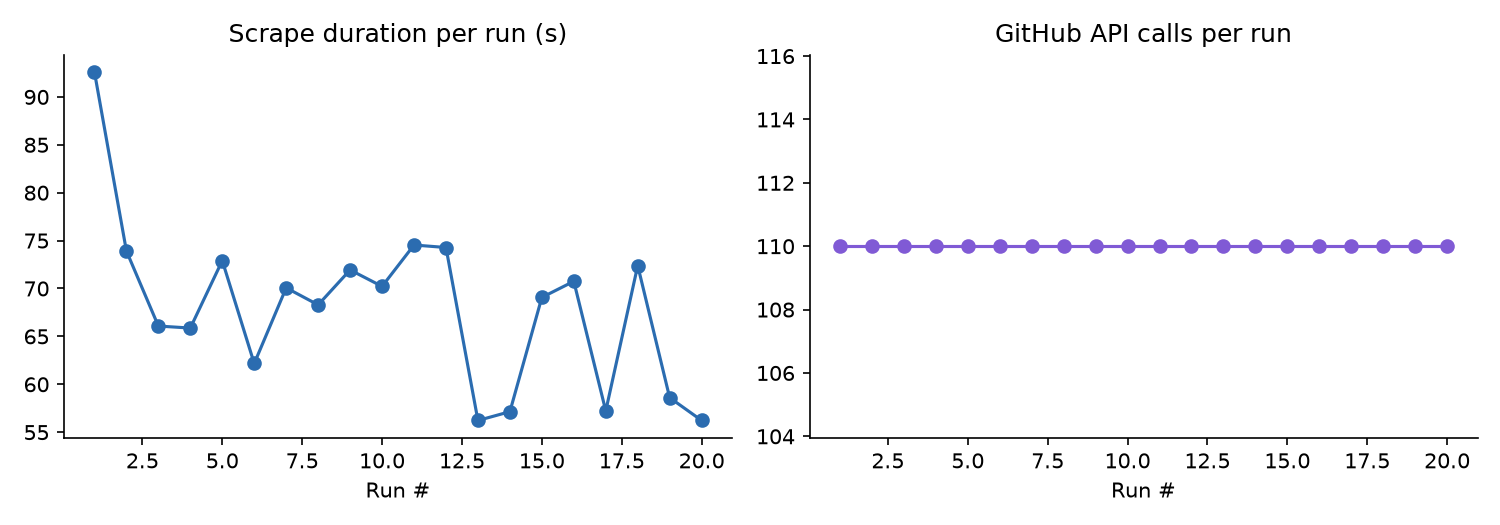
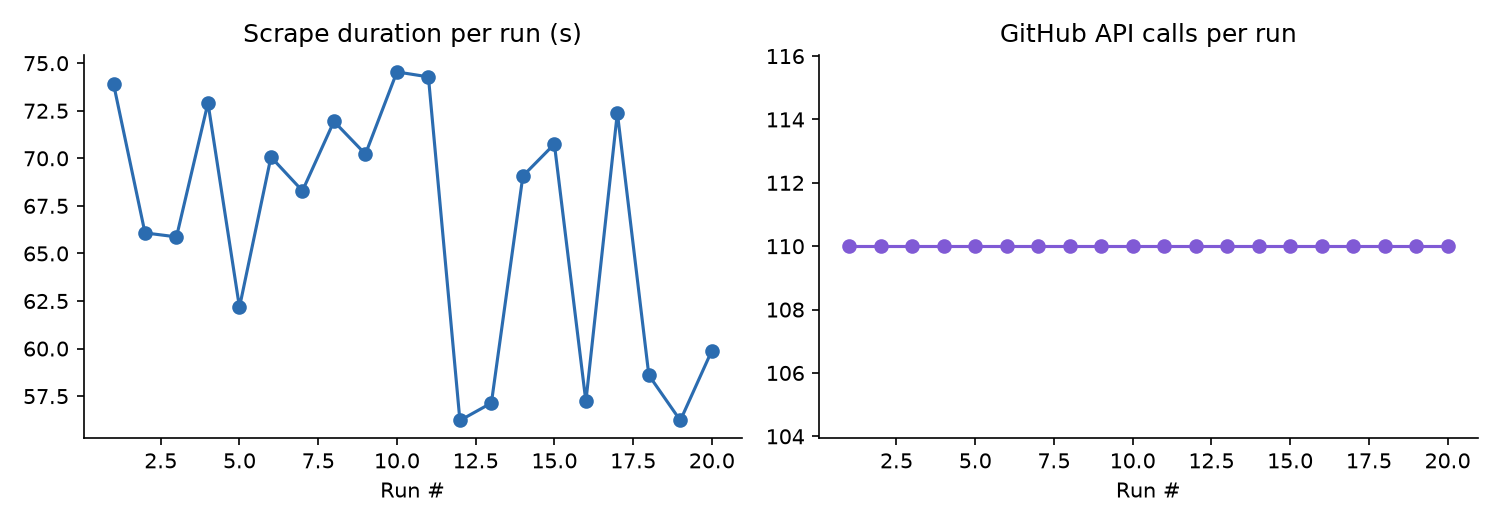
Weekly issue tracker refresh

diff --git a/README.md b/README.md
@@ -81,7 +81,7 @@ See [CONTRIBUTING.md](CONTRIBUTING.md) for the full contributor workflow — inc
 
 <!-- TRACKER:START -->
 
-_Last updated: 2026-08-20 02:43 UTC_
+_Last updated: 2026-08-20 03:29 UTC_
 
 _Tracking **18** upstream repos, **385** relevant open issues._
 
@@ -105,7 +105,7 @@ _Tracking **18** upstream repos, **385** relevant open issues._
 | Score | Issue | Labels | Comments | Updated |
 |---|---|---|---|---|
 | ★★★☆☆ | [#1038](https://github.com/GoogleCloudPlatform/opentelemetry-operations-go/issues/1038) Disabling the normalizer breaks unknown metrics | bug, priority: p2 | 0 | 2025-05-20 |
-| ★★☆☆☆ | [#912](https://github.com/GoogleCloudPlatform/opentelemetry-operations-go/issues/912) Dependency Dashboard | priority: p3, dependencies | 0 | 2026-08-19 |
+| ★★☆☆☆ | [#912](https://github.com/GoogleCloudPlatform/opentelemetry-operations-go/issues/912) Dependency Dashboard | priority: p3, dependencies | 0 | 2026-08-20 |
 | ★★☆☆☆ | [#946](https://github.com/GoogleCloudPlatform/opentelemetry-operations-go/issues/946) Add support for tracking metrics with `Cloud Run` resource type | enhancement | 6 | 2026-03-18 |
 | ★★☆☆☆ | [#1039](https://github.com/GoogleCloudPlatform/opentelemetry-operations-go/issues/1039) Cloud Trace does not display error span status description | bug, priority: p3, Blocked | 4 | 2025-06-02 |
 | ★★☆☆☆ | [#1026](https://github.com/GoogleCloudPlatform/opentelemetry-operations-go/issues/1026) GCP detector ignores context | bug, priority: p1 | 2 | 2025-05-28 |
@@ -296,7 +296,7 @@ _Tracking **18** upstream repos, **385** relevant open issues._
 
 <!-- METRICS:START -->
 
-_Last run: 2026-08-20 02:42 UTC, took **56.2s**, **110** GitHub API calls, **4890/5000** rate limit remaining._
+_Last run: 2026-08-20 03:28 UTC, took **59.9s**, **110** GitHub API calls, **4780/5000** rate limit remaining._
 
 ![Scrape metrics trend](assets/metrics_trend.png)
 
